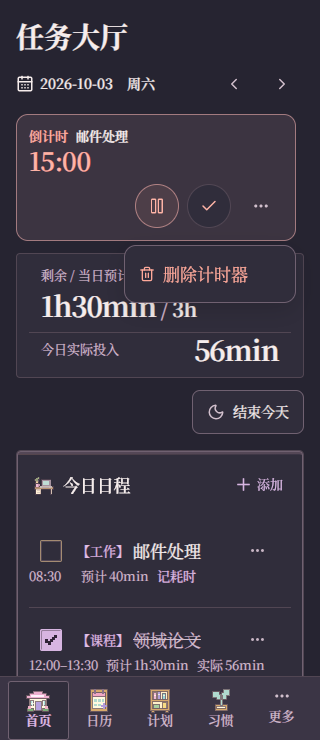
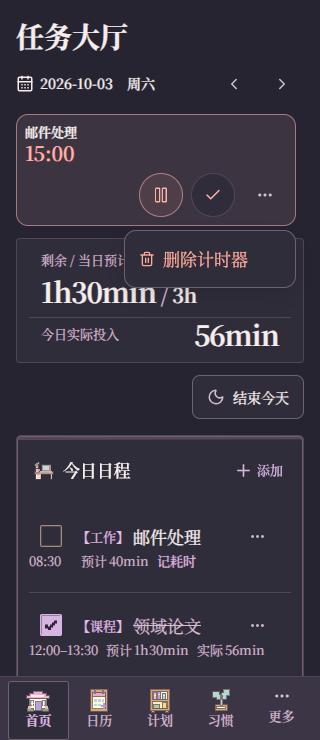
ui(task-timers)：压紧三张计时卡片并与任务大厅标题同排

diff --git a/src/features/tasks/task-timers.css b/src/features/tasks/task-timers.css
@@ -33,30 +33,21 @@
   --timer-ink: color-mix(in srgb, var(--timer-color) 85%, var(--text-primary));
   container-type: inline-size;
   display: grid;
-  grid-template-columns: 28px minmax(0, 1fr) auto;
+  grid-template-columns: minmax(0, 1fr) auto;
   align-items: center;
   gap: 8px;
-  padding: 10px;
+  padding: 8px;
   border: 1px solid color-mix(in srgb, var(--timer-color) 35%, var(--border));
   border-radius: var(--radius-md);
   background: color-mix(in srgb, var(--timer-color) 6%, var(--surface));
   min-width: 0;
-  width: 280px;
-  min-height: 76px;
-  flex: 0 0 280px;
+  width: 188px;
+  min-height: 64px;
+  flex: 0 0 188px;
   position: relative;
 }
 .task-timer[data-mode='down'] {
   --timer-color: var(--danger);
-}
-.task-timer-symbol {
-  display: grid;
-  place-items: center;
-  width: 28px;
-  height: 28px;
-  border-radius: 50%;
-  color: var(--timer-color);
-  background: color-mix(in srgb, var(--timer-color) 12%, var(--surface));
 }
 .task-timer-body {
   min-width: 0;
@@ -67,12 +58,6 @@
   flex-wrap: nowrap;
   gap: 2px 8px;
   min-width: 0;
-}
-.task-timer-mode {
-  color: var(--timer-ink);
-  font-size: var(--text-caption-size);
-  font-weight: 600;
-  white-space: nowrap;
 }
 .task-timer-heading strong {
   flex: 1 1 4em;
@@ -86,7 +71,7 @@
 .task-timer-readout {
   display: block;
   color: var(--timer-ink);
-  font-size: 1.5rem;
+  font-size: 1.25rem;
   font-weight: 600;
   font-variant-numeric: tabular-nums;
   line-height: 1.2;
@@ -106,12 +91,12 @@
 .task-timer-actions {
   display: flex;
   flex-shrink: 0;
-  gap: 8px;
+  gap: 6px;
 }
 .task-timers button {
-  min-height: 44px;
-  min-width: 44px;
-  padding: 6px 8px;
+  min-height: 32px;
+  min-width: 32px;
+  padding: 6px;
   border: 1px solid var(--border-subtle);
   border-radius: 50%;
   background: var(--surface);
@@ -172,19 +157,19 @@
   display: none;
 }
 /* 按标题栏实际可用宽度整体换行，卡片自身的宽高不随数量变化。 */
-@container (max-width: 1300px) {
+@container (max-width: 988px) {
   .tl-header[data-home='true']:has(.task-timer:nth-child(3)) .home-timer-slot {
     order: 2;
     flex-basis: 100%;
   }
 }
-@container (max-width: 980px) {
+@container (max-width: 800px) {
   .tl-header[data-home='true']:has(.task-timer:nth-child(2)) .home-timer-slot {
     order: 2;
     flex-basis: 100%;
   }
 }
-@container (max-width: 780px) {
+@container (max-width: 610px) {
   .home-timer-slot {
     order: 2;
     flex-basis: 100%;
@@ -192,9 +177,6 @@
 }
 /* 放大文字时优先保持可读，普通桌面字号不会触发卡片内部换行。 */
 @container (max-width: 10.5rem) {
-  .task-timer-symbol {
-    display: none;
-  }
   .task-timer-body {
     grid-column: 1 / -1;
   }
@@ -214,11 +196,12 @@
   }
 }
 @media (hover: none), (pointer: coarse), (max-width: 760px) {
-  .task-timer {
-    grid-template-columns: minmax(0, 1fr) auto;
+  .task-timers button {
+    min-height: 44px;
+    min-width: 44px;
   }
-  .task-timer-symbol {
-    display: none;
+  .task-timer-actions {
+    gap: 8px;
   }
   .task-timers .task-timer-more {
     display: grid;

diff --git a/e2e/ui-task-time.spec.ts b/e2e/ui-task-time.spec.ts
@@ -146,7 +146,7 @@ test('runs three independent timers, resumes after reload and records completion
             card.inlineControls,
         ),
       ).toBe(true);
-      if (i === 1) {
+      if (i >= 1) {
         await page.setViewportSize({ width: 1254, height: 720 });
         const title = (await page
           .getByRole('heading', { name: '任务大厅', exact: true })
@@ -173,7 +173,11 @@ test('runs three independent timers, resumes after reload and records completion
         expect(
           (await page.locator('.tl-header-actions').boundingBox())!.x,
         ).toBeGreaterThanOrEqual(Math.max(...headerCards.map((card) => card.right)));
-        await page.screenshot({ path: info.outputPath('home-two-timers.png') });
+        await page.screenshot({
+          path: info.outputPath(
+            i === 1 ? 'home-two-timers.png' : 'home-three-timers.png',
+          ),
+        });
         await page.setViewportSize({ width: 1280, height: 720 });
       }
     }
@@ -187,12 +191,11 @@ test('runs three independent timers, resumes after reload and records completion
     }
   }
   await expect(timers.locator('.task-timer')).toHaveCount(3);
-  await expect(timers.locator('[data-mode="up"] .task-timer-mode')).toHaveText([
-    '正计时',
-    '正计时',
-  ]);
-  await expect(timers.locator('[data-mode="down"] .task-timer-mode')).toHaveText(
-    '倒计时',
+  await expect(timers.locator('.task-timer-symbol, .task-timer-mode')).toHaveCount(0);
+  await expect(timers.locator('[data-mode="up"] time')).toHaveCount(2);
+  await expect(timers.locator('[data-mode="down"] time')).toHaveAttribute(
+    'aria-label',
+    /倒计时/,
   );
   await openWorkspaceSection(page, '计划');
   const duplicate = page.locator('[data-stage-task-id="demo-stage-time-task-0"]');
@@ -247,8 +250,10 @@ test('runs three independent timers, resumes after reload and records completion
         .filter((button) => getComputedStyle(button).display !== 'none')
         .every(
           (button) =>
-            button.getBoundingClientRect().width >= 44 &&
-            button.getBoundingClientRect().height >= 44,
+            button.getBoundingClientRect().width >=
+              (matchMedia('(pointer: coarse), (max-width: 760px)').matches ? 44 : 32) &&
+            button.getBoundingClientRect().height >=
+              (matchMedia('(pointer: coarse), (max-width: 760px)').matches ? 44 : 32),
         ),
       controlsSeparate: [...card.querySelectorAll('button')]
         .filter((button) => getComputedStyle(button).display !== 'none')

diff --git a/src/features/tasks/components/task-timer-card.tsx b/src/features/tasks/components/task-timer-card.tsx
@@ -1,14 +1,6 @@
 /** @fileoverview 红色倒计时与绿色正计时卡片；直接暂停/继续和完成，删除放入上下文菜单。 */
 'use client';
-import {
-  Check,
-  Clock3,
-  MoreHorizontal,
-  Pause,
-  Play,
-  Timer,
-  Trash2,
-} from 'lucide-react';
+import { Check, MoreHorizontal, Pause, Play, Trash2 } from 'lucide-react';
 import { useRef } from 'react';
 import { useGuardedAction } from '@/hooks/use-guarded-action';
 import { useTaskMenu } from '../hooks/use-task-menu';
@@ -17,7 +9,7 @@ import { pauseTimer, timerClock, timerElapsed, type TaskTimer } from '../timer-r
 import type { Task } from '@/types/domain';
 import type { SaveStageEstimate } from '@/features/stage-plans/task-estimate-editor';
 
-/** 颜色和文字同时标明模式；删除只移除本机计时，完成则固定写入意图并原子记账。 */
+/** 卡片只展示名称和时间；模式保留在悬停与朗读标签，删除只移除本机计时。 */
 export function TaskTimerCard({
   timer,
   task,
@@ -62,6 +54,7 @@ export function TaskTimerCard({
     <article
       className="task-timer"
       aria-label={'计时 ' + title}
+      title={(timer.mode === 'up' ? '正计时' : '倒计时') + ' · ' + title}
       data-running={running}
       data-mode={timer.mode}
       ref={menuAnchor}
@@ -69,14 +62,8 @@ export function TaskTimerCard({
       onContextMenu={menu.onContextMenu}
       onKeyDown={menu.onKeyDown}
     >
-      <div className="task-timer-symbol" aria-hidden="true">
-        {timer.mode === 'up' ? <Clock3 size={22} /> : <Timer size={22} />}
-      </div>
       <div className="task-timer-body">
         <div className="task-timer-heading">
-          <span className="task-timer-mode">
-            {timer.mode === 'up' ? '正计时' : '倒计时'}
-          </span>
           <strong title={title}>{title}</strong>
         </div>
         <time

diff --git a/tests/task-timer-interactions.test.tsx b/tests/task-timer-interactions.test.tsx
@@ -131,7 +131,7 @@ test('countdown settings validate integer minutes and retain rejected input', ()
   expect(close).toHaveBeenCalledOnce();
 });
 
-test('timer modes are explicit and removal from its menu never records time', () => {
+test('timer modes remain accessible without extra text and removal never records time', () => {
   const remove = vi.fn(),
     record = vi.fn();
   const { container } = render(
@@ -145,7 +145,12 @@ test('timer modes are explicit and removal from its menu never records time', ()
       onRecord={record}
     />,
   );
-  expect(screen.getByText('倒计时')).toBeVisible();
+  expect(screen.getByLabelText('倒计时已到时')).toBeVisible();
+  expect(screen.queryByText('倒计时')).toBeNull();
+  expect(container.querySelector('article')).toHaveAttribute(
+    'title',
+    '倒计时 · ' + task.title,
+  );
   expect(container.querySelector('article')).toHaveAttribute('data-mode', 'down');
   expect(screen.queryByRole('button', { name: '移除' })).toBeNull();
   fireEvent.click(screen.getByRole('button', { name: task.title + '计时器更多操作' }));

diff --git a/README.md b/README.md
@@ -30,7 +30,7 @@
 
 点击项目卡片可查看该项目的全部任务，涵盖阶段、日程与普通待安排；同一任务只显示一次，可按状态筛选或搜索。阶段创建使用可编辑的连续清单，默认归属「其他」，每条任务可直接更换项目。阶段未安排清单按项目分组，预计时长和标题同排，点击即可修改。阶段详情同时显示整个阶段预计、未完成任务的剩余预计、累计实际投入；单层圆环逐任务引线标注，明细可直接记录实际时长和投入日期。云端先应用 `202610020001_stage_task_estimates.sql` 和 `202610030001_task_actual_entry_date.sql` 再启用新客户端。
 
-首页保留任务大厅、统计栏、左侧今日日程和右侧内容栏的布局。顶部用「剩余 / 当日预计」显示未完成工作量与计划总量，并列显示实际投入（含 Daily）。右栏默认展示阶段、待安排与 Daily，可切换为今日时间分布并记住选择，也可整体收起；圆环上方只留口径切换，直接查看图形，不增加解释段落或统计提示。日程项目和预计列随区域宽度增长。标题右侧最多三个简约任务计时器，绿色正计时、红色倒计时，并直接标明模式。从日程、待安排、阶段和项目任务的右键或「…」菜单加入计时；卡片右键删除，手机点「…」删除，暂停/继续和完成仍可直接点按。完成按钮原子记录耗时并完成原任务，刷新恢复计时。桌面计时卡片保持相同宽高，数量增加时按钮不会换行；空间不足时整组换行。计时状态保存在本机、按账号隔离，同一浏览器的多个标签同步加入、暂停和删除，删除后可给同一任务重新计时；实际结果继续写入云端原 Task 与按日账本。详见 [阶段计划](docs/stage-plans.md)。
+首页保留任务大厅、统计栏、左侧今日日程和右侧内容栏的布局。顶部用「剩余 / 当日预计」显示未完成工作量与计划总量，并列显示实际投入（含 Daily）。右栏默认展示阶段、待安排与 Daily，可切换为今日时间分布并记住选择，也可整体收起；圆环上方只留口径切换，直接查看图形，不增加解释段落或统计提示。日程项目和预计列随区域宽度增长。标题右侧最多三个简约任务计时器，绿色正计时、红色倒计时，卡片只展示任务名与时间，悬停或朗读可查看计时方式。从日程、待安排、阶段和项目任务的右键或「…」菜单加入计时；卡片右键删除，手机点「…」删除，暂停/继续和完成仍可直接点按。完成按钮原子记录耗时并完成原任务，刷新恢复计时。桌面三张计时卡片压缩为等宽小卡片，在常用窗口中与任务大厅标题同排，数量增加时按钮不会换行；窄屏保持边界。计时状态保存在本机、按账号隔离，同一浏览器的多个标签同步加入、暂停和删除，删除后可给同一任务重新计时；实际结果继续写入云端原 Task 与按日账本。详见 [阶段计划](docs/stage-plans.md)。
 
 0.1.12 将计划与习惯界面精修、阶段任务估时和项目/任务时间分布带入 Windows 安装版；完整窗口跨屏回到小屏时恢复到可见工作区。迁移、发布流程和验收边界见 [版本说明](docs/release-0.1.12.md)。
 
